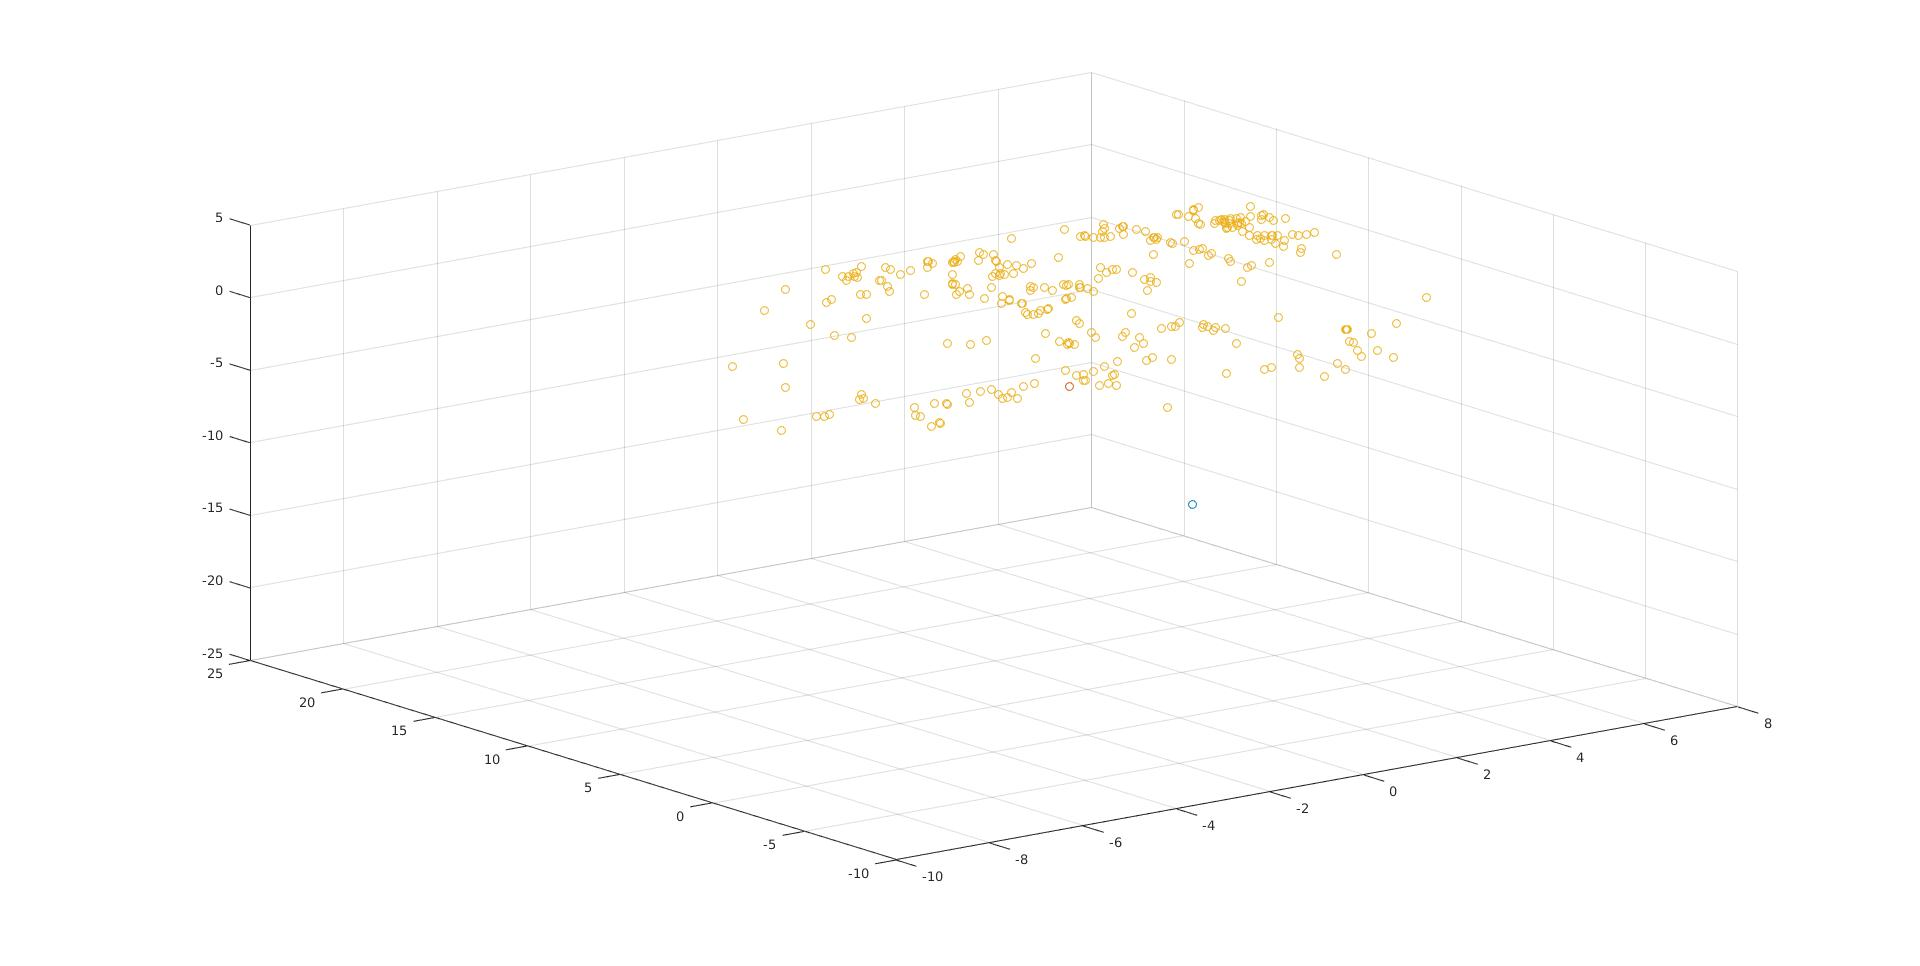
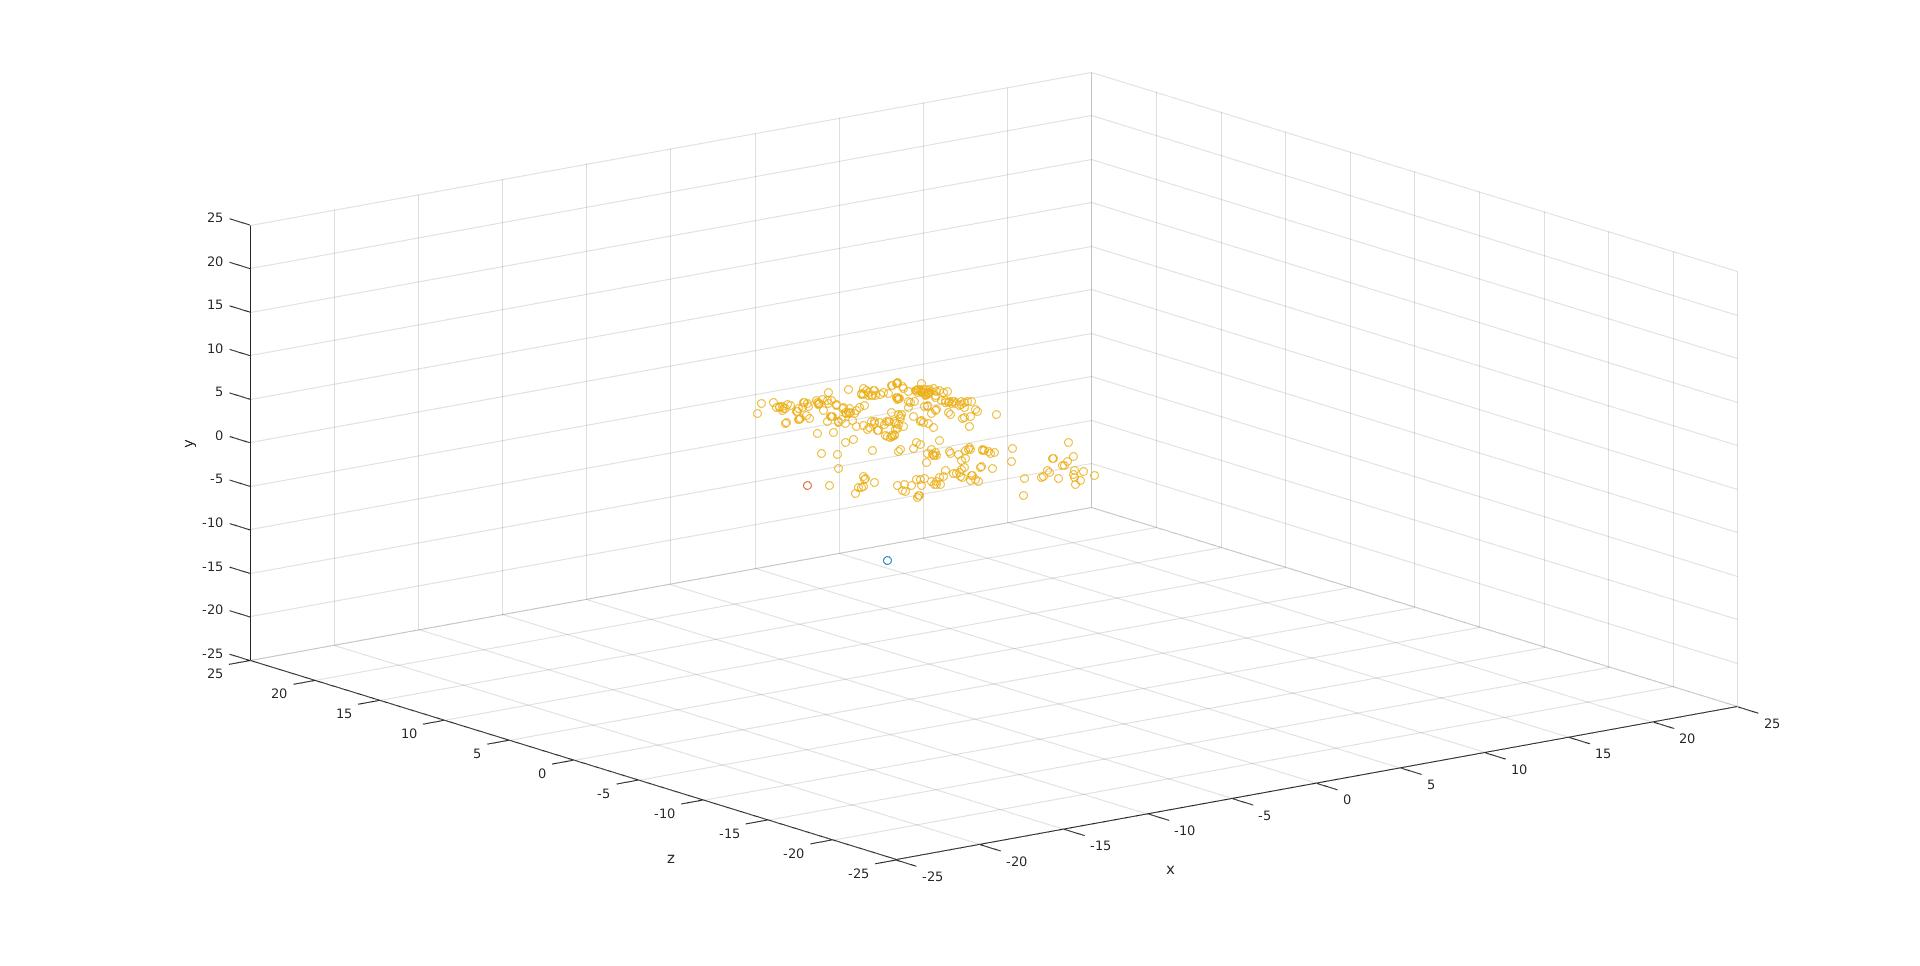
mre stuff

Changed region(s): [[0.375, 0.2174, 0.6875, 0.528], [0.6562, 0.3416, 0.7188, 0.4037]]

diff --git a/part3_triangulation.m b/part3_triangulation.m
@@ -7,14 +7,14 @@ clear
 close all
 
 % Load house 
-% camera_matrix_1 = load('data/house/house1_camera.txt');
-% camera_matrix_2 = load('data/house/house2_camera.txt');
-% matches = load('data/house/house_matches.txt');
+camera_matrix_1 = load('data/house/house1_camera.txt');
+camera_matrix_2 = load('data/house/house2_camera.txt');
+matches = load('data/house/house_matches.txt');
 
 % Load Library image
-camera_matrix_1 = load('data/library/library1_camera.txt');
-camera_matrix_2 = load('data/library/library2_camera.txt');
-matches = load('data/library/library_matches.txt');
+% camera_matrix_1 = load('data/library/library1_camera.txt');
+% camera_matrix_2 = load('data/library/library2_camera.txt');
+% matches = load('data/library/library_matches.txt');
 
 % Initiate empty matrix to save the 3D coordinates of matching points
 coordinates=zeros(size(matches));
@@ -64,6 +64,9 @@ end
 xlabel('x')
 ylabel('z')
 zlabel('y')
+xlim([-10 10])
+ylim([-10 10])
+zlim([-10 10])
 hold off
 
 % Plot coordinates as points on the 3D world. Again Z and Y are inverted. 
@@ -73,5 +76,11 @@ hold on
 scatter3(camera_2_coordinates(1), camera_2_coordinates(3), camera_2_coordinates(2))
 hold on
 scatter3(coordinates(:, 1), coordinates(:, 3), coordinates(:, 2))
+xlabel('x')
+ylabel('z')
+zlabel('y')
+xlim([-10 10])
+ylim([-10 10])
+zlim([-10 10])
 hold off
 

diff --git a/ransac_fundamental_matrix.m b/ransac_fundamental_matrix.m
@@ -1,7 +1,7 @@
 function [best_fund_matrix, matched_points_a, matched_points_b] = ransac_fundamental_matrix(matches1, matches2)
 s=8;
-d_threshold=10;
-T= 250; % size(matches1,1)*70/100;
+d_threshold=0.8;
+T= 80;
 max_inliers=0;
 best_indexes=zeros(size(matches1,1),1);
 best_distances=zeros(size(matches1,1),1);
@@ -46,8 +46,7 @@ matched_points_b=matches2(best_indexes,:);
 
 best_fund_matrix=estimate_fund_matrix([matched_points_a matched_points_b]);
 
-
-% What is returned values matched_points_a and matched_points_b
+disp(max_inliers)
 
 end
 
